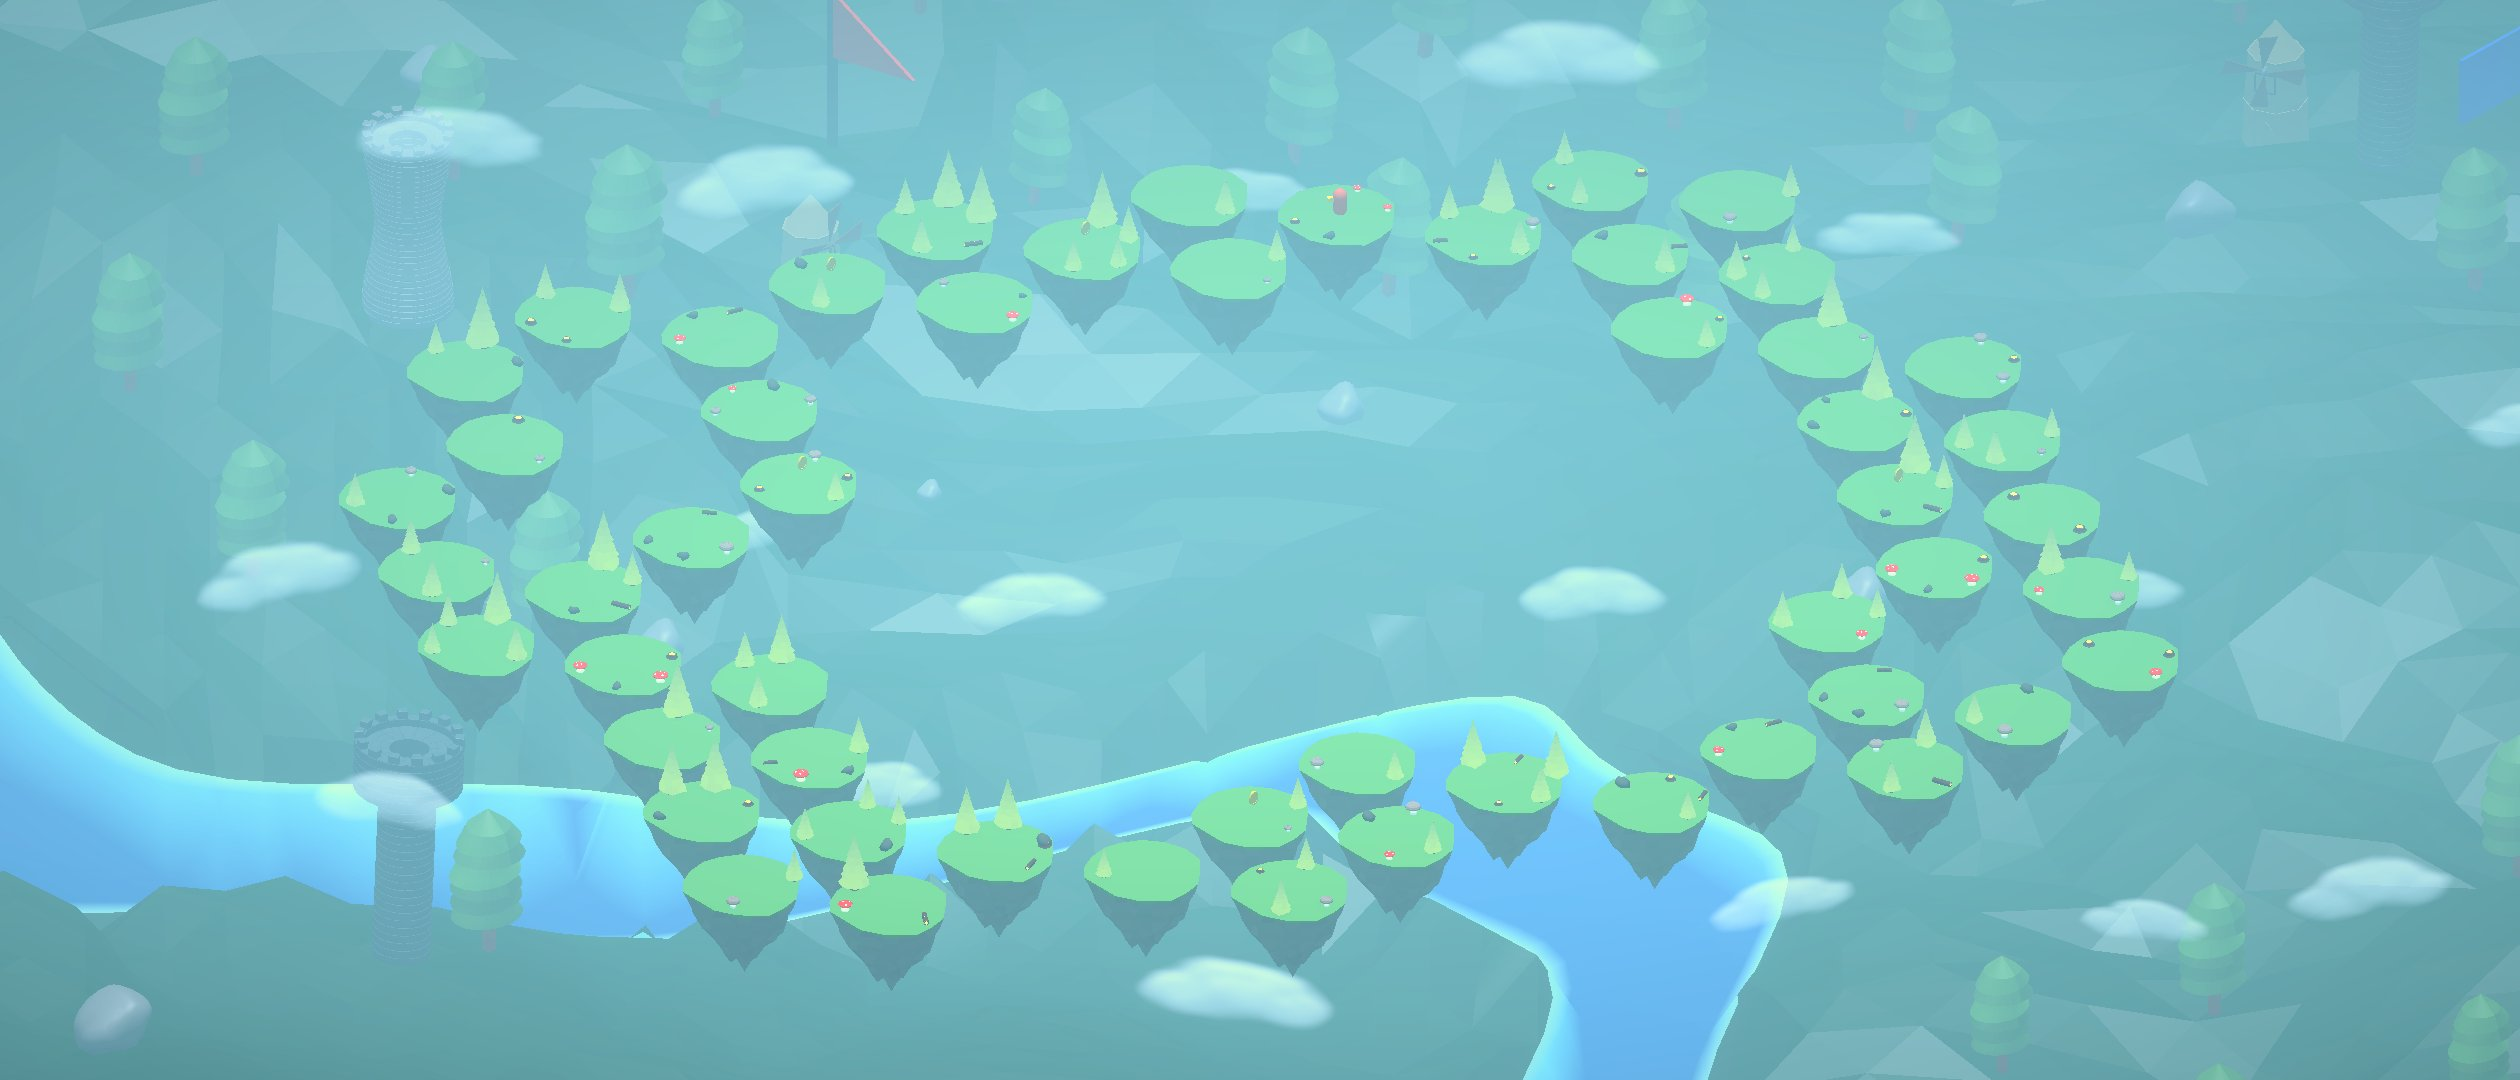
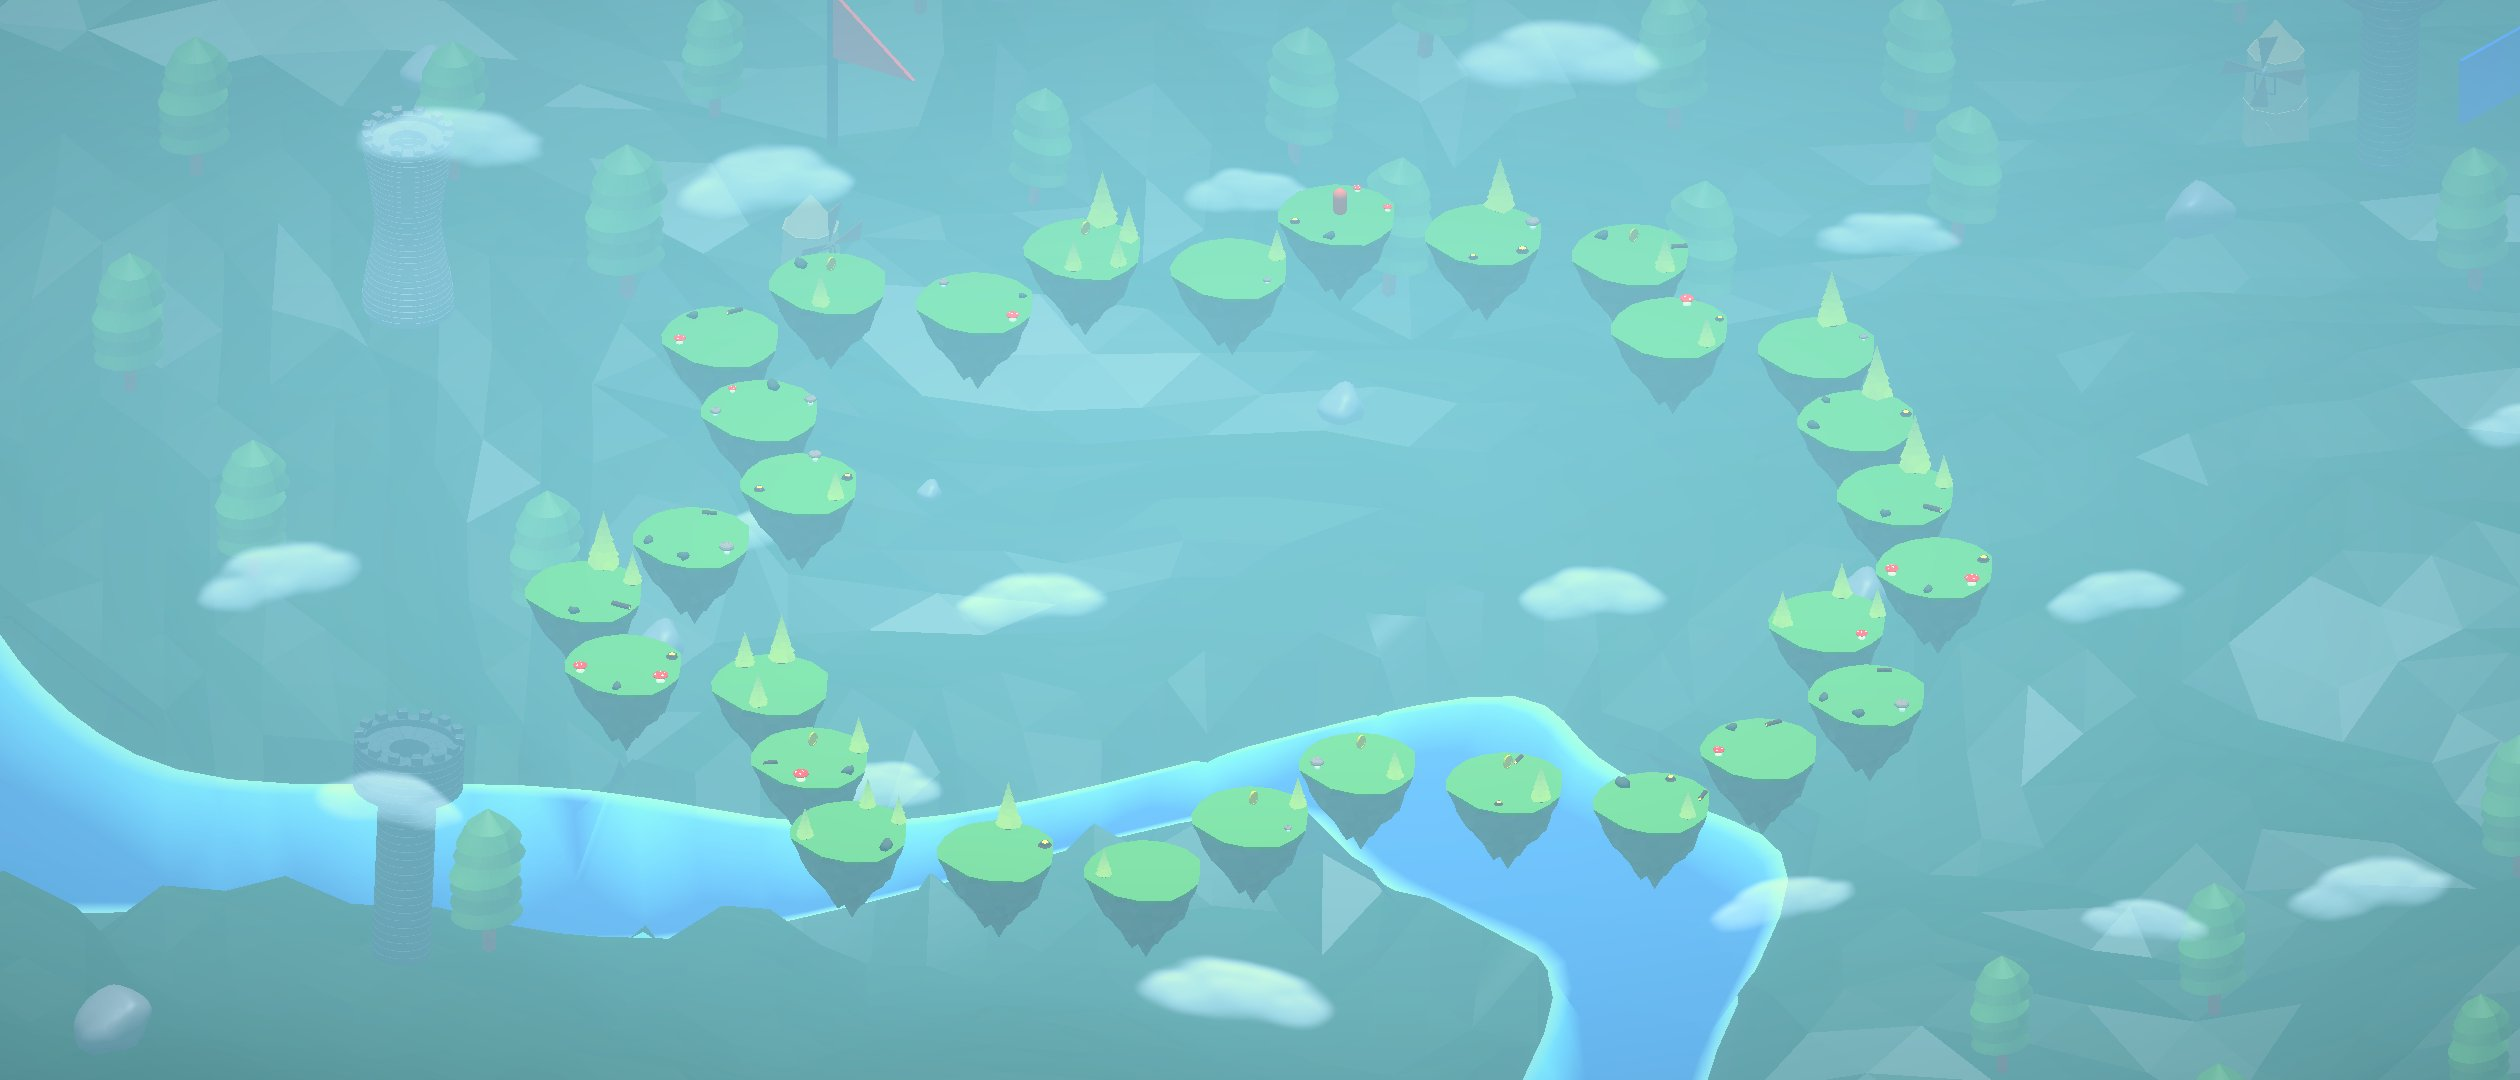
fix(docs): refaz capturas "depois" do Pass A em sessao limpa
As imagens anteriores tinham ilhas residuais de varreduras feitas na mesma
sessao de Play. Medidas inalteradas. Ignora __pycache__ das ferramentas.

diff --git a/docs/art/pass-a/RELATORIO_PASS_A.md b/docs/art/pass-a/RELATORIO_PASS_A.md
@@ -163,3 +163,10 @@ para o enquadramento antigo, reverter `HexIsoCamera.cs` (1 arquivo) e `margem` 1
   - `EixoDeMedida.Altura` num modelo achatado (altura ~0) gera escala muito grande (`tamanho / 0.001`). Nenhum modelo
     atual cai nisso; o validador deve passar a sinalizar altura < 5 % da maior dimensao (pendencia pequena).
   - Validacao da HUD em 1920x1080/2520x1080 reais continua manual (responsavel).
+
+## 13. Correcao das capturas "depois" (2026-11-14)
+As capturas de `docs/art/pass-a/depois/` da primeira entrega mostravam ilhas residuais de mapas gerados por scripts de
+varredura na mesma sessao de Play (dois aneis sobrepostos nas seeds 7 e 2024). As medidas deste relatorio nao foram
+afetadas: usam so as ilhas registradas no `HexWorld`. As 18 imagens e o par de inimigos foram refeitos numa sessao de
+Play nova, com o codigo desta branch (um anel por imagem, verificado visualmente). Lucca 44,2 px, lobo 46,8 px, morcego
+30,3 px na recaptura — iguais aos valores da tabela.
